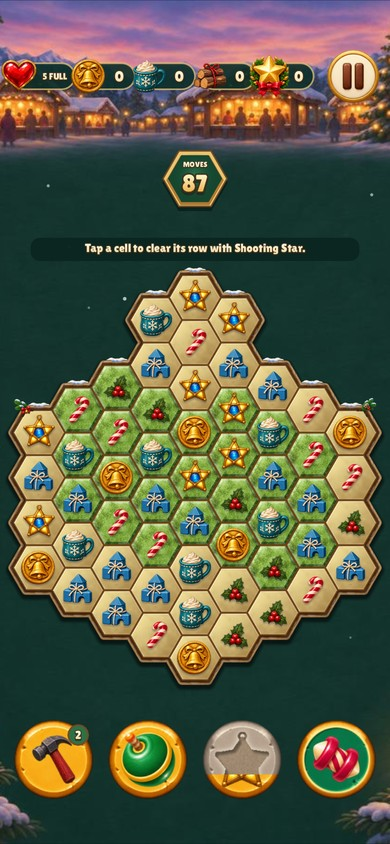
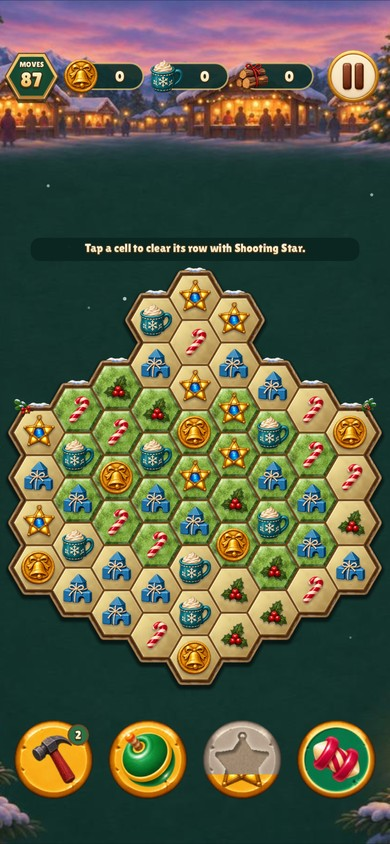
Share the single-row match-three campaign header

Changed region(s): [[0.3077, 0.0616, 0.8, 0.1232], [0.0, 0.0616, 0.2769, 0.1232], [0.4, 0.154, 0.5846, 0.2464]]

diff --git a/games/christmas-market/docs/asset-catalogue.md b/games/christmas-market/docs/asset-catalogue.md
@@ -107,6 +107,14 @@ Reproduce draft runtime extraction with `python3 games/christmas-market/tools/pr
 
 The font and its license are inherited unmodified from Relic Rush in `data/fonts/`. Gameplay modules were adapted locally from Relic Rush; its original archaeological paintings are not used in this draft.
 
+## Campaign board header
+
+The board uses the same safe-area header row as Relic Rush. It starts with
+Moves, followed by Gold, Food, Supplies and the round Pause button. Pending
+earnings appear in the three currency counters and matched resources fly
+to their icons. Lives and Christmas Stars appear in the town header.
+[480 × 900 board](screenshots/booster-toolbar.jpg) · [390 × 844 board](screenshots/booster-toolbar-phone.jpg)
+
 ## Campaign booster buttons
 
 The four circular buttons use the same [painted base and five state recipes](../../relic-rush/docs/asset-catalogue.md#campaign-bonus-pieces-and-sockets) as Relic Rush. The [manifest](../art/manifest.json) records the toy hammer and lantern star from the market goods atlas, plus the bomb and rocket from the shared board artwork. The generator fits each silhouette into the same circular socket and packs normal, selected, pressed, hover and engraved disabled states beneath the standalone icons.

diff --git a/docs/UI_ENGINE.md b/docs/UI_ENGINE.md
@@ -501,14 +501,12 @@ capsule and the menu button are `custom` nodes, so the pills and the taller
 menu share one centre line. `buttons.menu` and the bottom row's tap points
 come from the forms' layout boxes, not separate arithmetic.
 
-Match-3 games can set `capsules.currencies_only` in `game.json` to show
-only their wallet balances in the town and expedition headers. Each currency
-capsule can identify its `slot` in the saved purse. Match particles use the
-icon center for that slot, so a game's presentation can choose a display order.
-
-Set `header.moves_width` in `town.json` to give the expedition's Moves
-medallion the first slot in that row. The shared renderer sizes the medallion
-to that slot and keeps its low-moves feedback.
+Match-3 towns can set `capsules.currencies_only` in `game.json` to show only
+their currency balances. Campaign boards use the engine's shared header
+geometry with the Moves medallion, currency capsules and Pause on one row.
+Each currency capsule identifies its `slot` in the saved purse. Match
+particles use the icon center for that slot, so games can choose their
+currency display order.
 
 ## Town building popups
 

diff --git a/games/relic-rush/docs/asset-catalogue.md b/games/relic-rush/docs/asset-catalogue.md
@@ -585,10 +585,10 @@ buttons without captions; choosing one names it and its effect in the toast.
 
 ## Expedition header
 
-The campaign draws the same town wallet, lives, stars and Settings in both
-views. The board adds a separate Moves medallion, with its existing low-move
-state. The three resource icons show pending earnings in that same layout;
-flights land on the matching wallet icon. See the [current review](review/blue-plaque-campaign/README.md).
+The campaign board uses the shared header row for Moves, Coins, Supplies,
+Food and Pause. The Moves medallion shows its low-move state when needed.
+Resource counts include pending earnings, and matched pieces land on their
+currency icons. [Current board](screenshots/bonus-toolbar-phone.jpg)
 
 The earlier jade `signboard` is a static backplate packed in `data/match3-hud.png`.
 Moves, goal counts and Settings share its face. A green check replaces a
